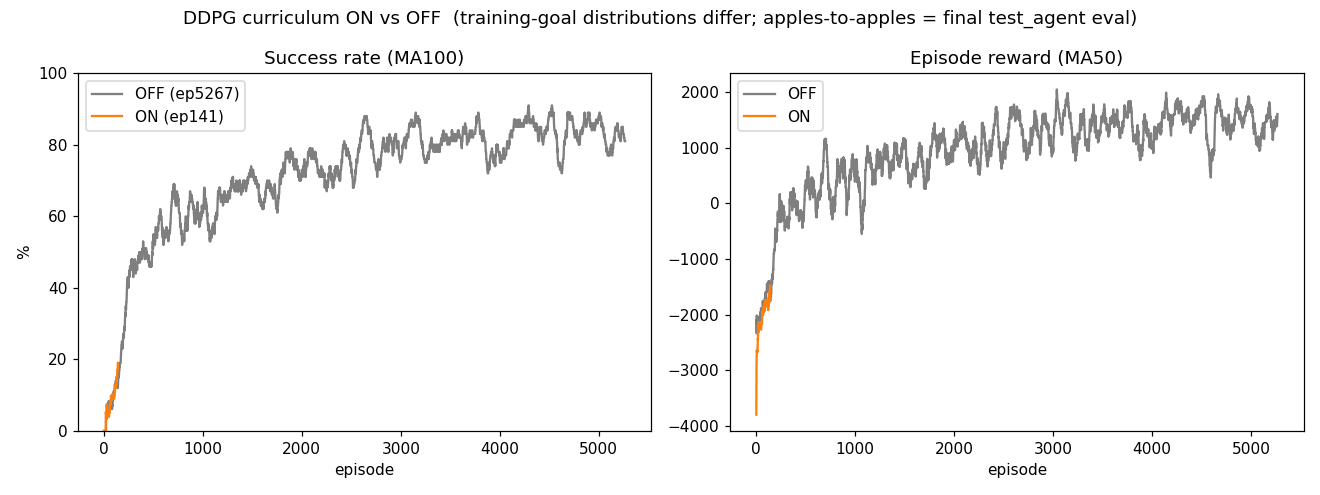
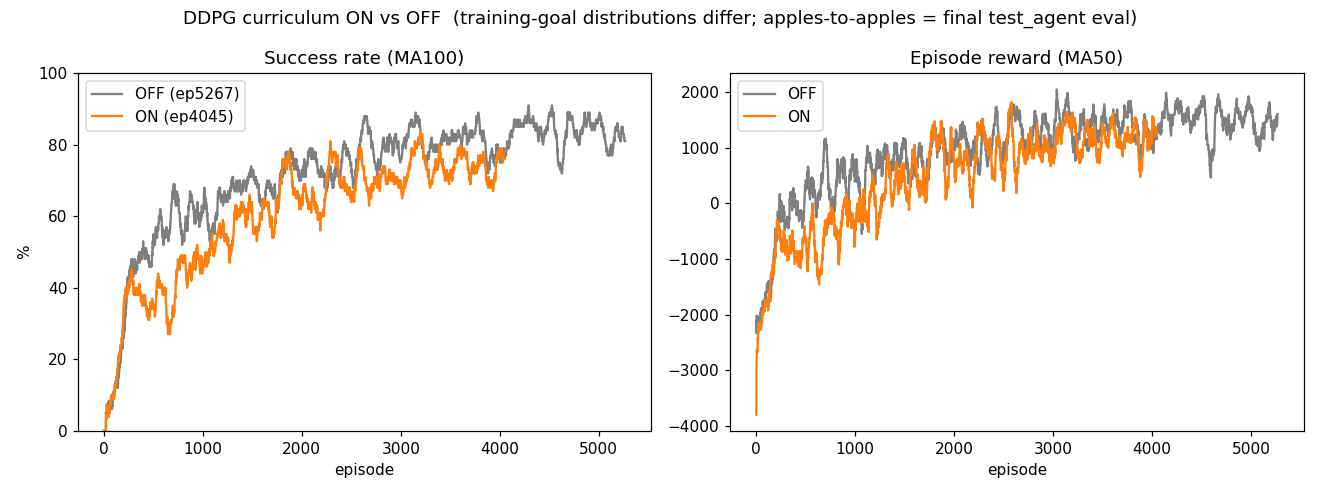
Add curriculum/reward-VH SAC experiments, eval-every-500 watcher, and standard test_agent eval results (DDPG & SAC curriculum, SAC demo checkpoint)

Changed region(s): [[0.5591, 0.2121, 0.9008, 0.5758], [0.0932, 0.2727, 0.4038, 0.6667], [0.1242, 0.2121, 0.1864, 0.2424]]

diff --git a/scripts/plot_tracking.py b/scripts/plot_tracking.py
@@ -22,6 +22,7 @@ os.makedirs(OUT, exist_ok=True)
 DQN      = os.path.join(MODEL, "dqn_2_stage_9")
 DDPG_ON  = os.path.join(MODEL, "ddpg_0_stage_9")    # curriculum ON  (MIN=1.0, MAX=2.8)
 DDPG_OFF = os.path.join(MODEL, "ddpg_47_stage_9")   # curriculum OFF (89% reference run)
+SAC_VH   = os.path.join(MODEL, "sac_0_stage_9")     # reward VH (exp007); target: beat reward V's 84%
 
 COL = {"episode": 0, "reward": 3, "ma100": 4, "loss_critic": 5, "loss_actor": 6}
 
@@ -99,6 +100,29 @@ def plot_ddpg_on_off():
     print("wrote", p)
 
 
+def plot_sac_vh():
+    d = load(SAC_VH)
+    if not d["episode"]:
+        print("SAC-VH: no episodes logged yet — skipping")
+        return
+    ep = d["episode"]
+    fig, ax = plt.subplots(1, 3, figsize=(15, 4))
+    ax[0].plot(ep, d["ma100"], color="tab:purple")
+    ax[0].axhline(84, ls="--", color="tab:green", lw=1, label="reward V (84%)")
+    ax[0].set_title("Success rate (MA100)"); ax[0].set_xlabel("episode"); ax[0].set_ylabel("%"); ax[0].set_ylim(0, 100); ax[0].legend()
+    ax[1].plot(ep, d["reward"], color="0.8", lw=0.8)
+    ax[1].plot(ep, rolling(d["reward"]), color="tab:green")
+    ax[1].set_title("Episode reward (raw + MA50)"); ax[1].set_xlabel("episode")
+    ax[2].plot(ep, d["loss_critic"], color="tab:red")
+    ax[2].set_title("Critic loss"); ax[2].set_xlabel("episode")
+    fig.suptitle(f"SAC reward VH (exp007) — ep{int(ep[-1])}, MA100={d['ma100'][-1]:.0f}%  (target: beat V's 84%)")
+    fig.tight_layout()
+    p = os.path.join(OUT, "sac_vh_tracking.png")
+    fig.savefig(p, dpi=110); plt.close(fig)
+    print("wrote", p)
+
+
 if __name__ == "__main__":
     plot_dqn()
     plot_ddpg_on_off()
+    plot_sac_vh()
